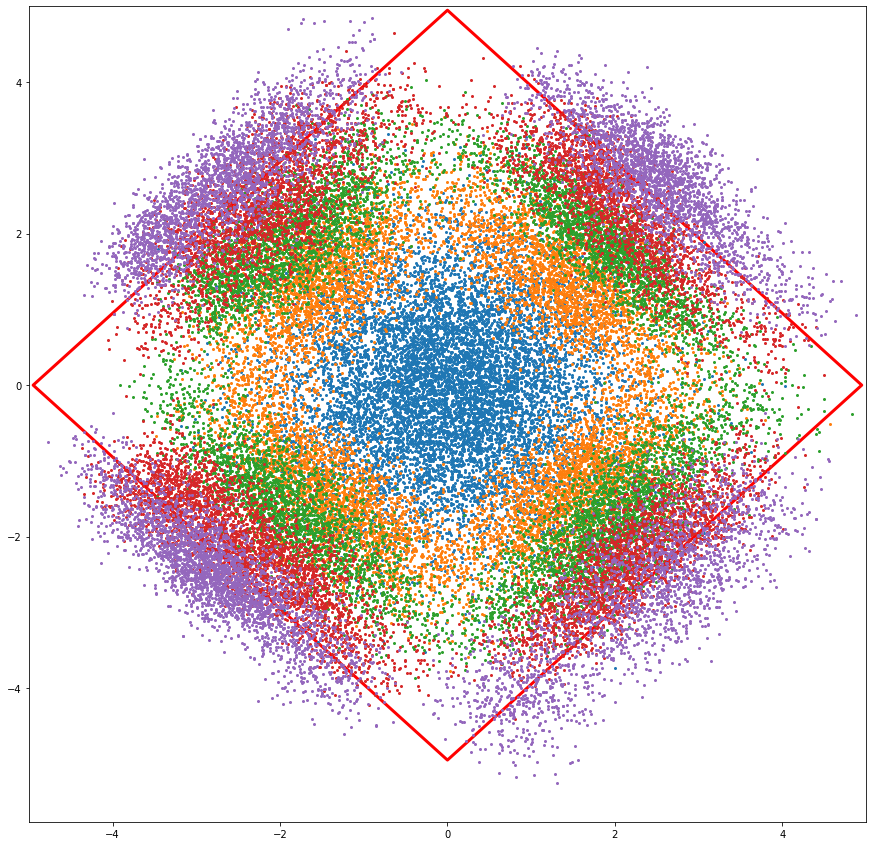
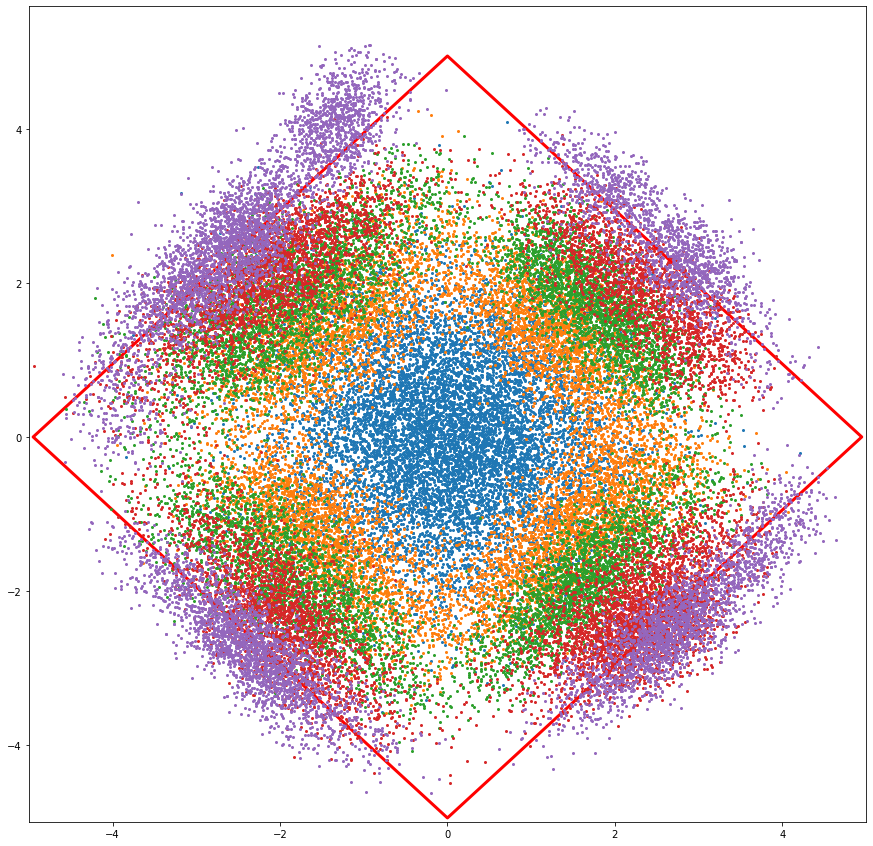
iCE VAE

diff --git a/cross_entropy/iCE_VAE.py b/cross_entropy/iCE_VAE.py
@@ -1,0 +1,172 @@
+#%% Modules
+
+import numpy as np
+import scipy.optimize as spo
+import openturns as ot
+import sys
+sys.path.append("../src/")
+from VAE_IS_VP import fitted_vae
+np.seterr(all='ignore')
+
+"""
+---------------------------------------------------------------------------
+Improved cross entropy-based importance sampling with Single Gaussian
+---------------------------------------------------------------------------
+Created by:
+Sebastian Geyer
+Felipe Uribe
+Iason Papaioannou
+Daniel Straub
+
+Assistant Developers:
+Fong-Lin Wu
+Matthias Willer
+Peter Kaplan
+Luca Sardi
+
+Engineering Risk Analysis Group
+Technische Universitat Munchen
+www.bgu.tum.de/era
+Contact: Antonios Kamariotis (antonis.kamariotis@tum.de)
+---------------------------------------------------------------------------
+Version 2021-03:
+* input dimensions of limit state function changed to rows*columns = 
+  samples*dimensions
+---------------------------------------------------------------------------
+Comments:
+* Adopt draft scripts from Sebastian and reconstruct the code to comply
+  with the style of the published codes
+* W is the original importance weight (likelihood ratio)
+* W_t is the transitional importance weight of samples
+* W_approx is the weight (ratio) between real and approximated indicator functions
+---------------------------------------------------------------------------
+Input:
+* N         : number of samples per level
+* g_fun     : limit state function
+* max_it    : maximum number of iterations
+* distr     : Nataf distribution object or marginal distribution object of the input variables
+* CV_target : taeget correlation of variation of weights
+---------------------------------------------------------------------------
+Output:
+* Pr        : probability of failure
+* lv        : total number of levels
+* N_tot     : total number of samples
+* samplesU  : object with the samples in the standard normal space
+* samplesX  : object with the samples in the original space
+---------------------------------------------------------------------------
+Based on:
+1. Papaioannou, I., Geyer, S., & Straub, D. (2019).
+   Improved cross entropy-based importance sampling with a flexible mixture model.
+   Reliability Engineering & System Safety, 191, 106564
+2. Geyer, S., Papaioannou, I., & Straub, D. (2019).
+   Cross entropy-based importance sampling using Gaussian densities revisited. 
+   Structural Safety, 76, 15–27
+---------------------------------------------------------------------------
+"""
+
+
+#%% Algorithm
+
+def iCEIS_VAE(N, phi, t, distr, CV_target, latent_dim=2, K=75):
+    
+    # Initialization of variables and storage
+    N_tot = 0  # total number of samples
+    max_it = 50
+    sigma_t = np.zeros(max_it)
+
+
+    if type(phi)==ot.func.Function:
+        compute_output = lambda x : np.array(phi(x)) 
+    else:
+        compute_output = lambda x : phi(np.array(x)).reshape((-1,1))
+    
+    
+    X = distr.getSample(N)
+    samples = [X]
+    Y = compute_output(X)
+    
+    sigma_t[0] = 10 * np.mean(Y)
+    I = (Y>=t)
+    
+    W_approx = np.divide(I, approx_normCDF((Y.flatten()-t) / sigma_t[0]))
+    if np.sum(W_approx)>0:
+        Cov_x = np.std(W_approx) / np.mean(W_approx)
+        if Cov_x <= CV_target:
+            return np.mean(I), N_tot, samples
+    
+    W_t = approx_normCDF((Y.flatten()-t) / sigma_t[0]).reshape((-1,1))
+
+    # Function reference
+    minimize = spo.fminbound
+
+    # Iteration
+    for j in range(1,max_it):
+        
+        vae,_,_ = fitted_vae(np.array(X).astype("float32"),W_t.astype("float32"),latent_dim,K,epochs=100,batch_size=100)
+        
+        X,g_X = vae.getSample(N,with_pdf=True)
+        samples.append(X)
+        f_X = np.array(distr.computePDF(X))
+    
+        W = f_X/np.array(g_X)
+    
+        Y = compute_output(X)
+        N_tot += N
+        I = (Y >= t)
+        
+        W_approx = np.divide(I, approx_normCDF((Y.flatten()-t) / sigma_t[j-1]).reshape((-1,1)))
+        if np.sum(W_approx)>0:
+            Cov_x = np.std(W_approx) / np.mean(W_approx)
+            print(Cov_x)
+            if Cov_x <= CV_target:
+                break
+        
+        # compute sigma and weights for distribution fitting
+        # minimize COV of W_t (W_t=approx_normCDF*W)
+        fmin = lambda x: abs(
+            np.std(np.multiply(approx_normCDF((Y.flatten()-t) / x).reshape((-1,1)), W))
+            / np.mean(np.multiply(approx_normCDF((Y.flatten()-t) / x).reshape((-1,1)), W))
+            - CV_target
+        )
+        sigma_new = minimize(fmin, 0, sigma_t[j-1])
+        sigma_t[j] = sigma_new
+
+        # update W_t
+        W_t = np.multiply(approx_normCDF((Y.flatten()-t) / sigma_new).reshape((-1,1)), W)
+
+    # Calculation of the Probability of failure
+    Pr = 1 / N * sum(W[I])
+
+    return Pr, samples, N_tot
+
+
+def approx_normCDF(x):
+    # Returns an approximation for the standard normal CDF based on a
+    # polynomial fit of degree 9
+
+    erfun = np.zeros(len(x))
+
+    idpos = x > 0
+    idneg = x < 0
+
+    t = (1 + 0.5 * abs(x / np.sqrt(2))) ** -1
+
+    tau = t * np.exp(
+        -((x / np.sqrt(2)) ** 2)
+        - 1.26551223
+        + 1.0000236 * t
+        + 0.37409196 * (t ** 2)
+        + 0.09678418 * (t ** 3)
+        - 0.18628806 * (t ** 4)
+        + 0.27886807 * (t ** 5)
+        - 1.13520398 * (t ** 6)
+        + 1.48851587 * (t ** 7)
+        - 0.82215223 * (t ** 8)
+        + 0.17087277 * (t ** 9)
+    )
+    erfun[idpos] = 1 - tau[idpos]
+    erfun[idneg] = tau[idneg] - 1
+
+    p = 0.5 * (1 + erfun)
+
+    return p

diff --git a/src/VAE_class.py b/src/VAE_class.py
@@ -178,32 +178,3 @@ class VAE(keras.Model):
             return new_sample,g_X
         else:
             return new_sample
-
-            
-    # def getSample(self,N,with_pdf=False):
-    #     z_sample = self.prior.getSample(N)
-    #     X_mean, X_log_var = self.decoder(tf.convert_to_tensor(z_sample))
-    #     X_mean,X_log_var = ot.Sample(np.array(X_mean).astype("float64")),np.array(X_log_var).astype("float64")
-    
-    #     std_matrix = np.sqrt(np.exp(X_log_var))
-    
-    #     Normal_vector = ot.Normal(self.input_dim).getSample(N)
-    #     new_sample = ot.Sample(std_matrix*Normal_vector) + X_mean
-        
-    #     if with_pdf==True:
-    #         start_time = time.time()
-    #         new_sample_np = np.array(new_sample)
-    #         g_X = np.zeros((N,1))
-    #         log_det = 0.5*np.sum(X_log_var,axis=1)
-    #         inv_det = 1/np.exp(log_det)
-            
-    #         for i in range(N):
-    #             point = (new_sample_np[i] - X_mean)/std_matrix
-    #             pdf = np.array(ot.Normal(self.input_dim).computePDF(ot.Sample(point))).flatten()
-    #             g_X[i] = np.mean(inv_det*pdf)
-       
-    #         print("Get PDF time: %s seconds " % (time.time() - start_time))
-    #
-    #         return new_sample, ot.Sample(g_X)
-    #     else:
-    #         return new_sample

diff --git a/numerical_tests/four_branches.py b/numerical_tests/four_branches.py
@@ -15,6 +15,7 @@ import sys
 sys.path.append("../cross_entropy/")
 from CE_vMFNM import CEIS_vMFNM
 from CE_VAE import CEIS_VAE
+from iCE_VAE import iCEIS_VAE
 
 ot.Log.Show(ot.Log.NONE)
 
@@ -74,6 +75,19 @@ ax.contour(X1, X2, values_function, [t],colors='purple')
 ax.scatter(X_failure[:,0],X_failure[:,1],color='red',s=6)
 
 
+#%% iCE-VAE
+
+input_dim = 2
+ot_function = ot.PythonFunction(input_dim,1,four_branchs)
+input_distr = ot.Normal(input_dim)
+
+N=2000
+
+proba, samples, N_tot = iCEIS_VAE(N, ot_function, 5, input_distr, 2, latent_dim=2, K=75)
+
+print(f"Estimated failure probability : {proba}")
+
+
 # #%% CE-vMFNM
 
 # input_dim = 100
@@ -98,14 +112,14 @@ ax.scatter(X_failure[:,0],X_failure[:,1],color='red',s=6)
 
 #%% 2D execution of CE-VAE
 
-input_dim = 2
+input_dim = 100
 ot_function = ot.PythonFunction(input_dim,1,four_branchs)
 input_distr = ot.Normal(input_dim)
 
 N=10**4
 p=0.25
 
-proba, samples, N_tot = CEIS_VAE(N,p,ot_function,t,input_distr,latent_dim=2,K=75)
+proba, samples, N_tot = CEIS_VAE(N,p,ot_function,5,input_distr,latent_dim=2,K=75)
 
 print(f"Estimated failure probability : {proba}")
 
